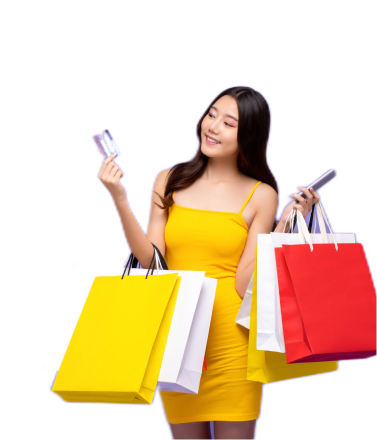
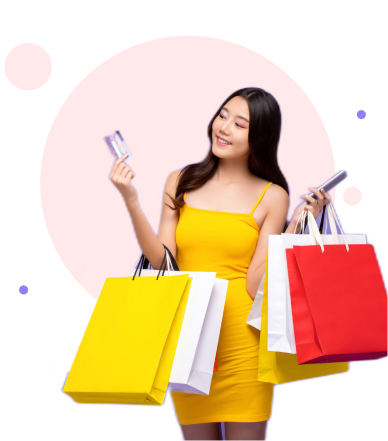
more fixing

diff --git a/src/app/about/page.tsx b/src/app/about/page.tsx
@@ -1,4 +1,5 @@
 import React from "react";
+
 import Header from "../components/Header";
 import Footer from "../components/Footer";
 const Page = () => {
@@ -17,13 +18,10 @@ const Page = () => {
                         Get Quote Now
                     </button>
                 </div>
-                <div className="lg\:w-1\/2 sm\:w-full mt-8 lg\:mt-0 flex justify-center relative w-full">
-                    <div className="bg-pink-100 w-80 h-80 rounded-full absolute "></div>
-
-
-
-                    <div className="immage relative z-10 "></div>
+                <div className="w-full h-[25rem] md:w-[786px] md:h-[50rem] mt-10 lg:mt-0 relative">
+                    <div className="immage"></div>
                 </div>
+
             </div>
 
             {/* Section 2: Problem Solving Section */}
@@ -67,7 +65,7 @@ const Page = () => {
 
             <Footer />
         </section>
-        
+
     );
 };
 

diff --git a/src/app/global.css b/src/app/global.css
@@ -18,6 +18,7 @@
 body {
   display: flex;
   font-family: 'Roboto', Arial, sans-serif;
+
 }
 .home-hero {
   width: 100%;
@@ -33,17 +34,18 @@ body {
   margin-bottom: 5rem;
 
 }
-.immage{
+.immage {
   background-image: url(./images/technology-1.png);
-  width: 100%;
-  height: 100vh;
   background-position: center;
   background-repeat: no-repeat;
   background-size: cover;
   display: flex;
   align-items: center;
   justify-content: flex-start;
+  width: 100%;
+  height: 100%;
 }
+
 
 .hometext span {
   color: white;
@@ -508,7 +510,7 @@ body {
   align-items: center;
   justify-content: space-between;
   gap: 15px
-  /* border: 1px solid crimson; */
+  
 }
 
 .fifth-price-btn{

diff --git a/src/app/shop/product.css b/src/app/shop/product.css
@@ -451,8 +451,8 @@
     display: flex;
     align-items: center;
     justify-content: center;
-    flex-wrap: wrap;
-
+    flex-wrap: nowrap;
+    overflow-x: auto; 
 }
 
 
